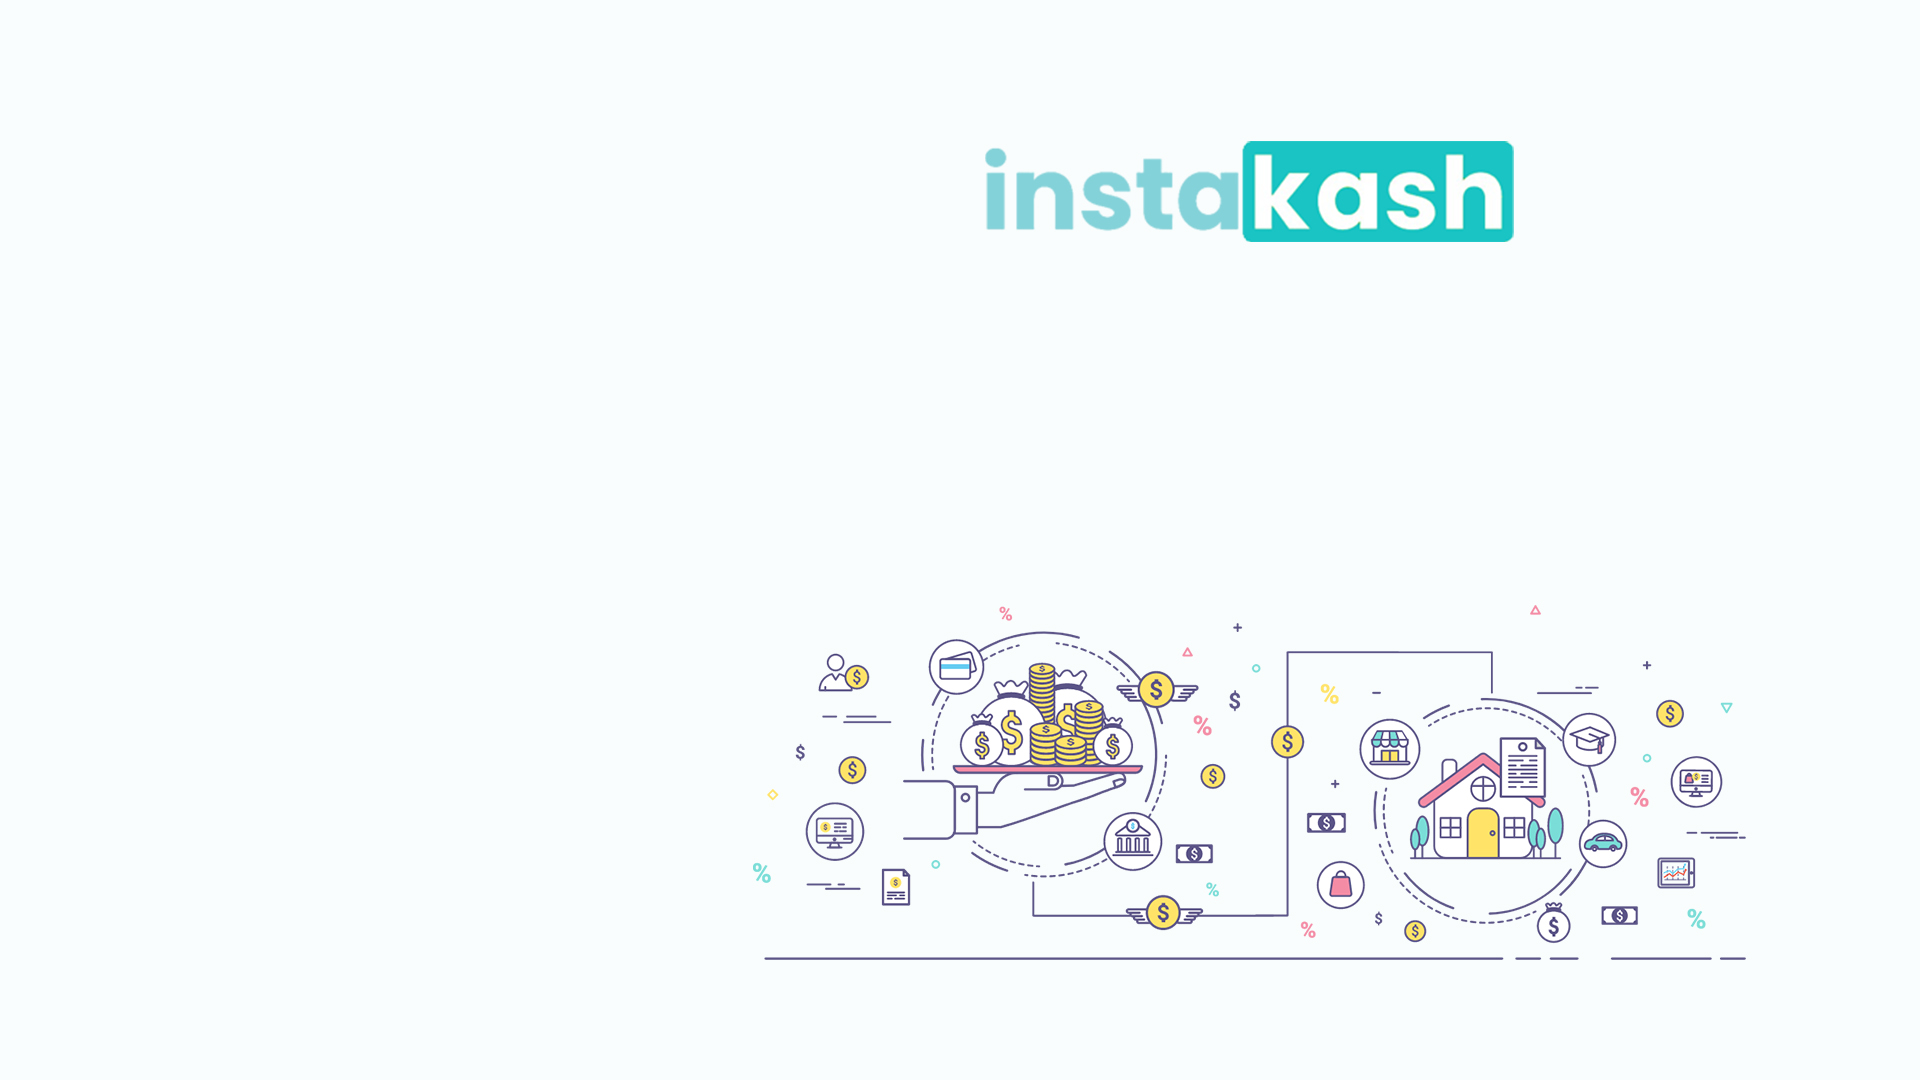
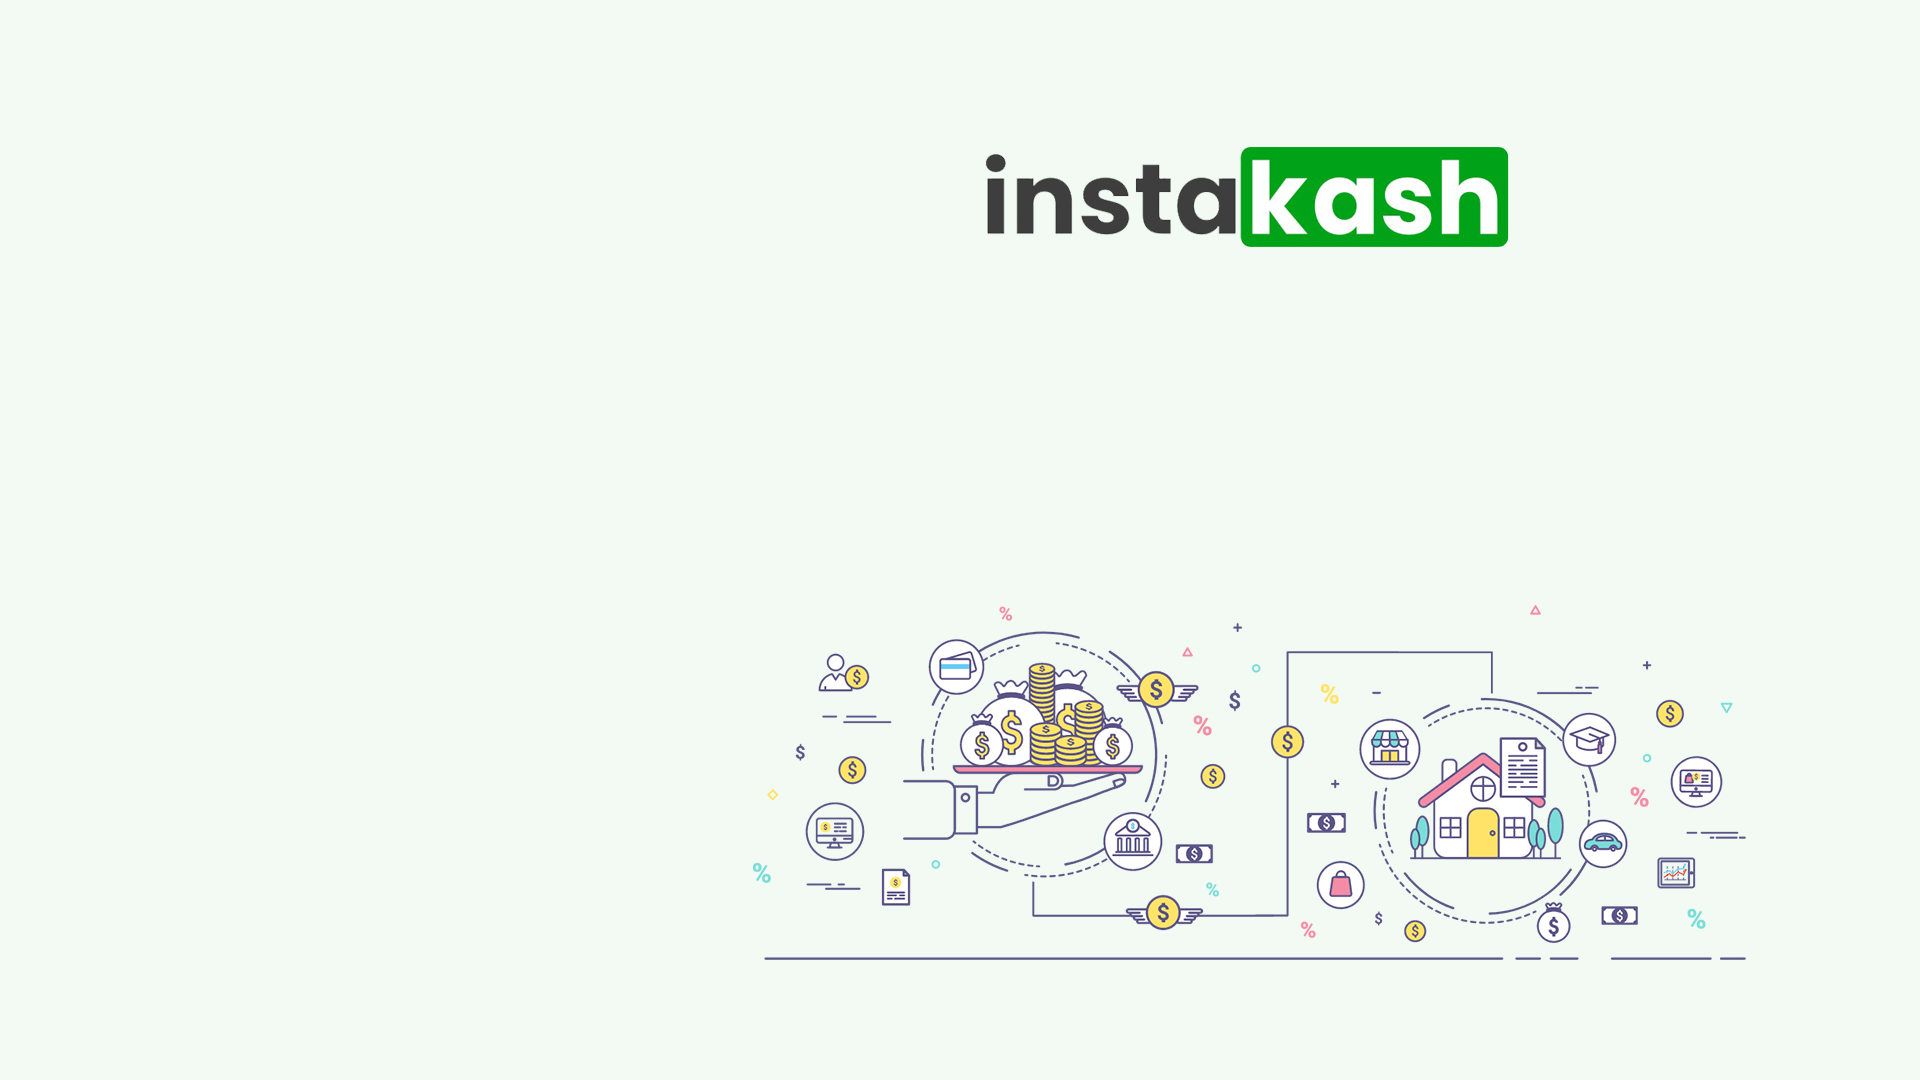
Changed theme colors

Changed region(s): [[0.5, 0.1222, 0.8125, 0.2444]]

diff --git a/pages/dashboard.js b/pages/dashboard.js
@@ -96,12 +96,24 @@ const useStyles = theme => ({
   title: {
     flexGrow: 0,
     textAlign: 'left',
-    color: theme.palette.secondary.main
+    color: theme.palette.primary.main
+  },
+  helloContainer: {
+    justifyContent:'space-between',
+    flexWrap:'nowrap',
+    height:'100%'
   },
   hello: {
     display: 'flex',
     flexDirection: 'column',
-    justifyContent: 'center'
+    justifyContent: 'space-around'
+  },
+  helloImage: {
+    display: 'flex',
+    justifyContent: 'flex-end',
+    "@media screen and (max-width: 850px)": {
+      display: "none"
+    }
   },
   drawerPaper: {
     position: 'relative',
@@ -147,8 +159,8 @@ const useStyles = theme => ({
   gridButton: {
     borderRadius: "10px",
     "&:hover": {
-      border: `1px solid ${theme.palette.secondary.main}`,
-      color: theme.palette.secondary.main
+      border: `1px solid ${theme.palette.primary.main}`,
+      color: theme.palette.primary.main
     },
   },
   buttonContainer: {
@@ -284,6 +296,7 @@ class Dashboard extends Component {
 
   logout() {
     sessionStorage.clear();
+    this.setState({loaded:false})
     return Router.push('/login')
   }
 
@@ -348,15 +361,20 @@ class Dashboard extends Component {
               {/* Chart */}
               <Grid item xs={12}>
                 <Paper className={fixedHeightPaper} style={{justifyContent: 'center'}}>
-                  <Grid container>
-                    <Grid className={classes.hello} item xs={12} sm={8}>
-                      <Typography variant="h3" color="inherit" noWrap className={classes.title}>
-                        Hello, {firstName? firstName : 'User'}!
-                      </Typography>
-                      <Typography variant='body1' styles={{marginTop:"5px"}}>
-                        Welcome to InstaKash, please continue your application.
-                      </Typography>
+                  <Grid container className={classes.helloContainer}>
+                    <Grid className={classes.hello} item xs={12} sm={10} md={8}>
+                      <Grid>
+                        <Typography variant="h3" color="inherit" noWrap className={classes.title}>
+                          Hello, {firstName? firstName : 'User'}!
+                        </Typography>
+                        <Typography variant='body1' styles={{marginTop:"5px"}}>
+                          Welcome to InstaKash, please continue your application.
+                        </Typography>
+                      </Grid>
                       <ReferButton link='https://member.instakash.com/api/landing/&pc=5053&sid=CID137'/>
+                    </Grid>
+                    <Grid className={classes.helloImage} item xs={null} sm={4}>
+                      <img src={require('../public/images/dashboard icon.png')} style={{height:'200px'}}/>
                     </Grid>
                   </Grid>
                   {/* <Chart /> */}

diff --git a/components/previousLoans.js b/components/previousLoans.js
@@ -32,7 +32,7 @@ const styles = theme => ({
   formLabel: {
     padding: 8,
     fontSize: '1.2rem',
-    color:theme.palette.secondary.main,
+    color:theme.palette.primary.main,
     textTransform: "uppercase"
   },
   grid: {
@@ -63,8 +63,7 @@ class PreviousLoans extends Component {
                   from={{ overflow: 'hidden', height: 0, opacity: 0 }}
                   enter={{ height: 'auto', opacity: 1, padding: '8px' }}
                   leave={{ height: 0, opacity: 0, }}
-                  // trail={1000}
-                  config={config.slow}
+                  trail={300}
                 >
                   {item => props => (
                     <animated.div style={props}>
@@ -73,7 +72,7 @@ class PreviousLoans extends Component {
                         <Grid item xs={12} sm={6}>
                           <Typography variant='body1'>Loan Amount: {` SAR ${item.amount}`}</Typography>
                           <Typography variant='body1'>Loan Duration: {` ${item.tenure} months`}</Typography>
-                          <Typography variant='body1'>Status: <span style={{color: item.status==='AUTHORIZED' ? 'green' :'red'}}>
+                          <Typography variant='body1'>Status: <span style={{color: item.status==='AUTHORIZED' ? theme.palette.primary.main :'red'}}>
                             {`  ${item.status}`}
                           </span>
                           </Typography>

diff --git a/components/signUp.js b/components/signUp.js
@@ -34,7 +34,7 @@ const useStyles = theme => ({
     backgroundPosition: 'center',
   },
   a: {
-    color: theme.palette.secondary.main,
+    color: theme.palette.primary.main,
   },
   paperroot: {
     "@media screen and (min-width: 600px)": {
@@ -69,11 +69,11 @@ const useStyles = theme => ({
     marginTop: '1rem'
  },
   value:{
-    color: theme.palette.secondary.main,
+    color: theme.palette.primary.main,
   },
   bottom: {
     padding: "0 2em",
-    border: `1px solid ${theme.palette.secondary.main}`,
+    border: `1px solid ${theme.palette.primary.main}`,
     borderRadius: "35px",
     marginTop: '1rem'
   }
@@ -222,7 +222,7 @@ class SignUp extends Component {
         <CssBaseline />
         <Grid className={classes.paperroot} item xs={12} sm={6} md={4} lg={4} component={Paper} elevation={6} square>
           <div className={classes.paper}>
-            <Typography component="h4" variant="h5" style={{color: theme.palette.secondary.main}}>
+            <Typography component="h4" variant="h5" style={{color: theme.palette.primary.main}}>
               Sign up
             </Typography>
             <Typography>You are a step closer to joining thousands of people who trust us to back their financial needs</Typography>

diff --git a/pages/login.js b/pages/login.js
@@ -35,10 +35,10 @@ const useStyles = makeStyles((theme) => ({
   },
   avatar: {
     margin: theme.spacing(1),
-    backgroundColor: theme.palette.secondary.main,
+    backgroundColor: theme.palette.primary.main,
   },
   a: {
-    color: theme.palette.secondary.main,
+    color: theme.palette.primary.main,
   },
   form: {
     width: '100%', // Fix IE 11 issue.
@@ -104,7 +104,7 @@ export default function Login(props) {
           <Avatar className={classes.avatar}>
             <LockOutlinedIcon />
           </Avatar>
-          <Typography component="h1" variant="h5">
+          <Typography component="h1" variant="h5" style={{color: theme.palette.primary.main}}>
             Login
           </Typography>
           <form className={classes.form} onSubmit={submit} validate={1}>

diff --git a/components/loanApplicationForm.js b/components/loanApplicationForm.js
@@ -91,7 +91,7 @@ const styles = theme => ({
     fontSize: "1rem",
     flexGrow: 0,
     textAlign: 'left',
-    color: theme.palette.secondary.main
+    color: theme.palette.primary.main
   },
 
   paper: {
@@ -115,7 +115,7 @@ const styles = theme => ({
   formLabel: {
     padding: 8,
     fontSize: '1.2rem',
-    color:theme.palette.secondary.main
+    color:theme.palette.primary.main
   },
   formSubLabel: {
     padding: 8,
@@ -149,7 +149,7 @@ const styles = theme => ({
     marginBottom: 24
   },
   buttonProgress: {
-    color: theme.palette.secondary.main,
+    color: theme.palette.primary.main,
     // position: 'absolute',
     // top: '50%',
     // left: '50%',

diff --git a/src/theme.js b/src/theme.js
@@ -5,10 +5,10 @@ import { red } from '@material-ui/core/colors';
 const theme = createMuiTheme({
   palette: {
     secondary: {
-      main: '#1ac4c4'
+      main: '#343436'
     },
     primary: {
-      main: '#83d2d9'
+      main: '#00a218'
     }
   },
   typography: {

diff --git a/components/approvalDocuments.js b/components/approvalDocuments.js
@@ -30,7 +30,7 @@ const styles = theme => ({
   formLabel: {
     padding: 8,
     fontSize: '1.2rem',
-    color:theme.palette.secondary.main,
+    color:theme.palette.primary.main,
     textTransform: "uppercase"
   },
   grid: {

diff --git a/components/newLoanApp.js b/components/newLoanApp.js
@@ -50,7 +50,7 @@ const styles = theme => ({
     fontSize: "1rem",
     flexGrow: 0,
     textAlign: 'left',
-    color: theme.palette.secondary.main
+    color: theme.palette.primary.main
   },
 
   paper: {
